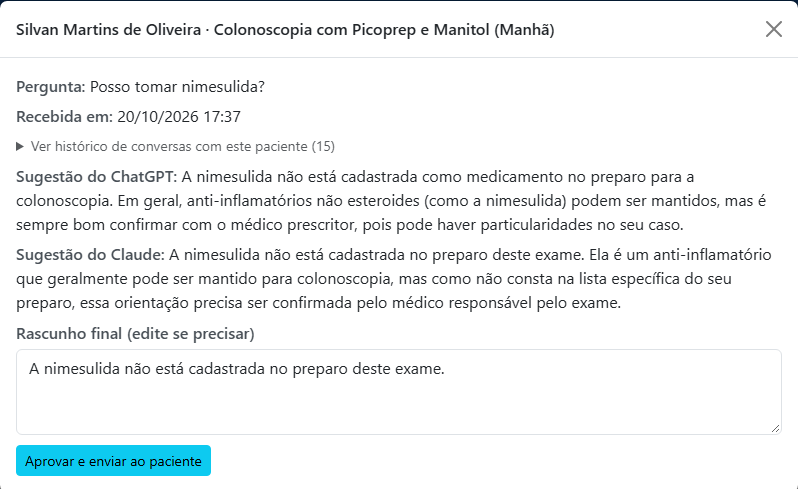
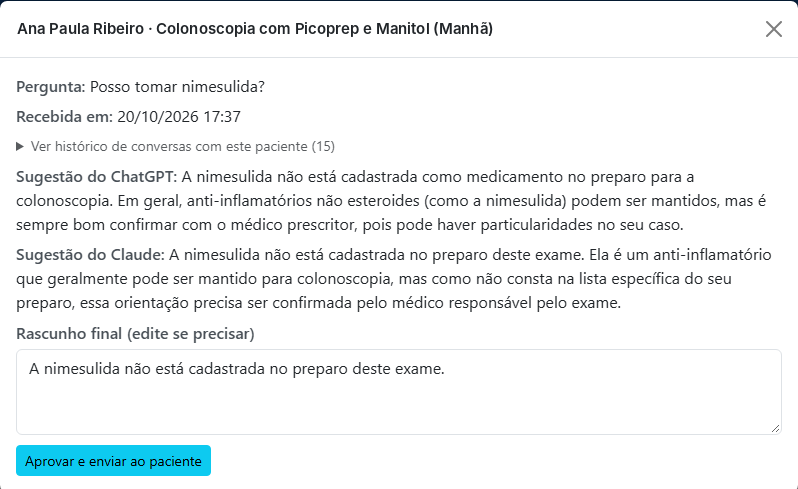
Print do Portal para o site: nome do paciente trocado por um fictício
Claude-Session: https://claude.ai/code/session_01GezQFKTGpH1i2nEHwr2519

Changed region(s): [[0.0301, 0.0307, 0.6917, 0.092]]

diff --git a/HANDOFF_CHAT.md b/HANDOFF_CHAT.md
@@ -2337,7 +2337,7 @@ Comportamento (decisões do Silvan): com o interruptor LIGADO (aba "Base de conh
 Prints do sistema enviados pelo Silvan para colocar na página de apresentação (`site/inicio.html`) mais tarde. Ainda NÃO usados em nenhuma página:
 - `app/static/img/site/importar-pdf-preparo.png` (505x390) - popup "Importar de um PDF" extraindo o preparo com IA ("Tentando extrair os dados com Gemini..."). Sugestão: ilustrar o passo 1 do "Como funciona" (Importe o seu preparo).
 - `app/static/img/site/primeiros-passos.png` (1004x563) - tela "Primeiros passos" com o checklist (atalho na tela de início, modelo de preparo e exame, agendar exame para o paciente de teste). Sugestão: ilustrar o início rápido ou a chamada final ("Comece hoje, em poucos minutos").
-- `app/static/img/site/revisao-resposta-portal.png` (798x490) - Portal de atendimento: pergunta "Posso tomar nimesulida?" com as sugestões do ChatGPT e do Claude e o rascunho final para o médico aprovar. Sugestão: ilustrar a seção "Como o MedIA responde" (duas IAs + revisão opcional). Atenção: mostra o nome "Silvan Martins de Oliveira" (paciente de teste) - trocar ou desfocar se não quiser o nome no site.
+- `app/static/img/site/revisao-resposta-portal.png` (798x490) - Portal de atendimento: pergunta "Posso tomar nimesulida?" com as sugestões do ChatGPT e do Claude e o rascunho final para o médico aprovar. Sugestão: ilustrar a seção "Como o MedIA responde" (duas IAs + revisão opcional). O nome do paciente no cabeçalho foi trocado por um fictício ("Ana Paula Ribeiro") a pedido do Silvan.
 - Uso no template: `{{ url_for('static', filename='img/site/importar-pdf-preparo.png') }}`.
 - Observação: o print do PDF cita o nome "Gemini" - se não quiser expor qual IA é usada na extração, recortar ou refazer o print antes de publicar.
 
